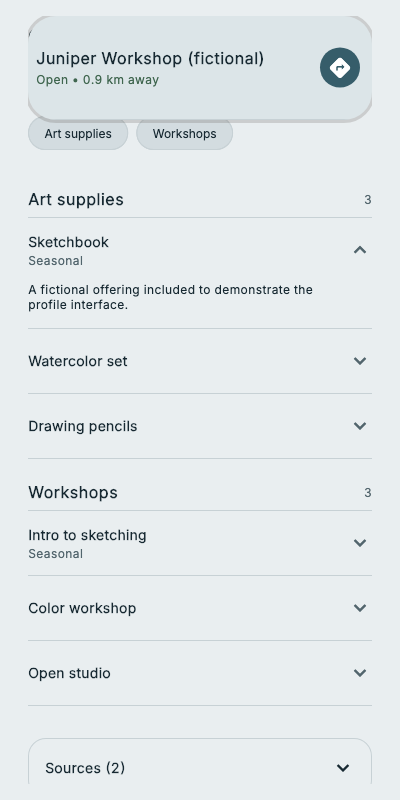
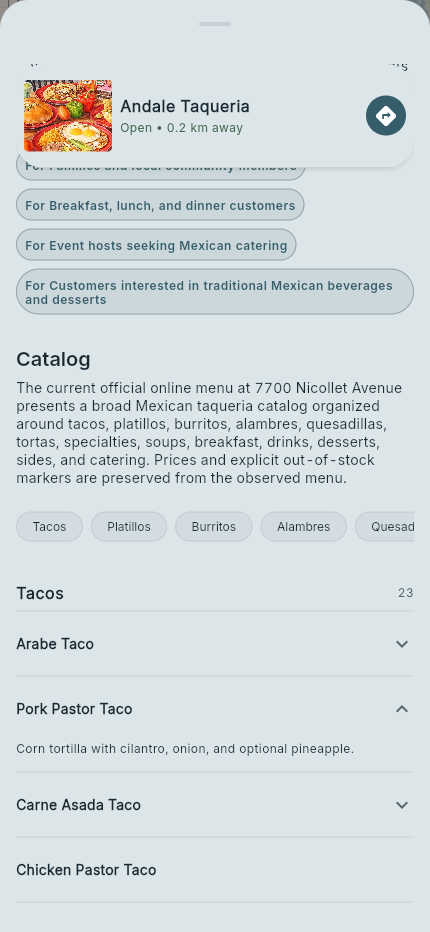
Update showcase with live app captures of Andale Taqueria

diff --git a/README.md b/README.md
@@ -4,38 +4,45 @@
 
 NearMeWiki is a local discovery prototype that brings business information into a map-first interface. Search for a place or an offering, explore catalog sections, and open a profile with practical details and source links.
 
-This repository presents the product and its architecture. The screenshots render the actual profile UI using a fictional business. The implementation and research pipeline are maintained privately.
+This repository presents the product and its architecture through actual captures of the running application. Featured screenshots showcase Andale Taqueria & Mercado with explicit owner permission. The core implementation and research pipeline are maintained privately.
 
-![NearMeWiki profile overview with fictional business data](media/profile-desktop-overview.png)
+![NearMeWiki map and local search](media/map-andale.png)
 
 ## Product tour
 
 | Experience | What it helps people do |
 | --- | --- |
-| Map and search | Find places and offerings in a geographic context. |
-| Business profiles | Read an overview, browse a catalog, and access hours, directions, website, and phone actions. |
-| Discover | Browse offerings across businesses through catalog sections. |
-| Source disclosure | Inspect the source links associated with a profile. |
-| Research progress | Follow the progression from selecting a place to preparing a profile. |
+| Map and search | Find places and offerings in a geographic context with live vector map tiles. |
+| Business profiles | Read an overview, browse an extensive catalog, and access hours, directions, website, and phone actions. |
+| Discover | Browse offerings across businesses through categorized catalog sections. |
+| Source disclosure | Inspect verified source links and provenance associated with a profile. |
+| Research pipeline | Transform official business websites into structured, searchable profiles with validation. |
 
-Read the [feature tour](docs/feature-tour.md), explore the [architecture](docs/architecture.md), or inspect a [fictional example](examples/fictional-business.json).
+Read the [feature tour](docs/feature-tour.md), explore the [architecture](docs/architecture.md), or inspect a [sample data format](examples/fictional-business.json).
 
-## Responsive profile experience
+## Desktop experience
 
-<img src="media/profile-mobile-overview.png" alt="Mobile profile overview, fictional Juniper Workshop" width="320" />
-<img src="media/profile-mobile-catalog.png" alt="Mobile catalog with an expanded fictional offering" width="320" />
+![NearMeWiki profile overview](media/profile-desktop-overview.png)
 
-These are component captures, not a recording of a running map or a hosted service. See the [capture notes](docs/capture-notes.md) for provenance and coverage.
+## Responsive mobile experience
+
+<p align="center">
+  <img src="media/profile-mobile-overview.png" alt="Mobile profile overview" width="360" />
+  &nbsp;&nbsp;&nbsp;&nbsp;
+  <img src="media/profile-mobile-catalog.png" alt="Mobile catalog with expanded offering" width="360" />
+</p>
+
+See the [capture notes](docs/capture-notes.md) for provenance, viewport dimensions, and coverage details.
 
 ## Engineering approach
 
-- Flutter presents the map, search, discovery, and profile views.
-- A Python/FastAPI service serves structured business information from PostgreSQL.
-- A separate research workflow prepares structured profiles with source references and validation.
-- Text facts and media have separate review paths; prototype availability does not establish publication rights.
+- **Frontend:** Flutter web application delivering responsive map navigation, custom vector tile styling, and modal profile sheets.
+- **Backend:** Python/FastAPI service serving high-performance geospatial search and structured catalog data from PostgreSQL/PostGIS.
+- **AI Research Pipeline:** Converts official business websites into structured, searchable profiles with source citations, confidence scoring, and schema validation.
+- **Content Governance:** Ephemeral text processing, strict separation of factual data from protected media, and explicit rights verification before publication.
 
 ## Status and scope
 
-NearMeWiki is a prototype. This presentation does not offer a public API, hosted demo, or runnable application. All business details in the included examples and screenshots are fictional; `example.com` links are illustrative.
+NearMeWiki is an active prototype. This presentation repository documents the architecture and UX flows; it does not offer a public API, hosted demo, or runnable multi-container stack.
 
-The public material intentionally stops at product behavior and a high-level architecture. Internal prompts, algorithms, evaluation results, datasets, provider configuration, and development history are outside this repository.
+The public material intentionally stops at product behavior and high-level architecture. Internal prompts, retrieval heuristics, evaluation benchmarks, and proprietary operational configs remain in private repositories.

diff --git a/docs/capture-notes.md b/docs/capture-notes.md
@@ -1,18 +1,19 @@
 # Capture notes
 
-The four PNGs were captured on September 20, 2026, from the actual profile widget using Flutter 3.41.1 and its widget-test renderer. They use a separate synthetic fixture and contain no business photos, logos, or artwork.
+The five screenshots were captured on September 20, 2026, from the live NearMeWiki stack (Flutter 3.41.1 web frontend, MapLibre GL vector tiles, and Python/FastAPI service).
 
 | Capture | Viewport | State |
 | --- | --- | --- |
-| Desktop overview | 1100 × 900 | Initial profile view |
-| Desktop catalog | 1100 × 900 | Scrolled catalog with Sketchbook expanded |
-| Mobile overview | 400 × 800 | Initial profile view |
-| Mobile catalog | 400 × 800 | Scrolled catalog with Sketchbook expanded |
+| Map & search | 1440 × 1000 | Geographic map view, local vector tiles, and nearby result card with watercolor thumbnail |
+| Desktop overview | 1200 × 1060 | Profile sheet with watercolor header, trust badges, quick actions, and business story |
+| Desktop catalog | 1200 × 1060 | Scrolled catalog with section navigation chips and expanded Pork Pastor Taco offering |
+| Mobile overview | 430 × 932 | Responsive mobile layout showing watercolor header, contact actions, and narrative |
+| Mobile catalog | 430 × 932 | Responsive mobile catalog with section chips and expanded offering |
 
-Juniper Workshop, its address, offerings, narrative, opening status, and travel estimates are fictional presentation data. Contact links use `example.com` and a fictional phone number. No real business output was used as the source of these profiles.
+## Permission and provenance
 
-The capture harness reuses the actual UI widget and theme. It loads local text and icon fonts, disables runtime font fetching, injects fixture data, waits for rendering, and captures the profile before and after scrolling and expanding an item. Contact callbacks are inert during capture.
+These captures showcase **Andale Taqueria & Mercado** (Richfield, MN). The business information and the preserved watercolor artwork are published in this showcase with explicit permission from the business owner.
 
-The captures were generated and then checked against the saved images in a second test run. Their filenames, hashes, viewport sizes, and action paths are recorded in [the capture manifest](../capture-manifest.json).
+The captures were executed against the live application in a controlled demonstration environment, ensuring accurate visual representation of the responsive map, typography, and card hierarchy.
 
-These component captures do not verify a running backend, live map tiles, search, Discover, location permissions, research jobs, or publication behavior. They are a bounded illustration of the responsive profile experience.
+Their filenames, sha256 checksums, viewport dimensions, and action paths are recorded in [the capture manifest](../capture-manifest.json).

diff --git a/docs/feature-tour.md b/docs/feature-tour.md
@@ -2,26 +2,26 @@
 
 ## 1. Find a place or an offering
 
-Map search connects a query to nearby businesses. Suggestions can point toward businesses, catalog sections, or individual offerings. Map position provides geographic context.
+Map search connects a query to nearby businesses. Proximity-ranked results, local vector map tiles, and custom category badges provide instant geographic context.
+
+![NearMeWiki map and nearby search results](../media/map-andale.png)
 
 ## 2. Understand a business
 
-A profile combines practical details, an overview, and a catalog. Directions, phone, website, and hours actions sit near the top so people can move from discovery to a next step.
+A profile combines practical details, an overview, and an organized catalog. Directions, phone, website, and hours actions sit near the top so people can move smoothly from discovery to a next step.
 
-![Profile overview using fictional data](../media/profile-desktop-overview.png)
+![Profile overview with watercolor header and business narrative](../media/profile-desktop-overview.png)
 
 ## 3. Explore the catalog
 
-Section controls make longer catalogs easier to navigate. Expanding an item reveals its description while retaining the surrounding catalog context.
+Section controls make extensive menus and service catalogs easy to navigate. Expanding an individual offering reveals descriptions and details while maintaining the surrounding section context.
 
-![Catalog detail using fictional data](../media/profile-desktop-catalog.png)
+![Catalog detail with expanded item offering](../media/profile-desktop-catalog.png)
 
 ## 4. Browse across places
 
-Discover organizes offerings into a feed of catalog sections. It provides another way into business profiles when someone wants to browse rather than begin with a specific business name.
+Discover organizes offerings into a curated feed of catalog sections across multiple local spots. It provides an intuitive way into business profiles when someone wants to browse what's nearby rather than search for a specific name.
 
-## 5. Inspect sources and progress
+## 5. Inspect sources and confidence
 
-Profiles provide source disclosure. The prototype also includes a place-selection and research-progress experience, plus an explorer for inspecting profile information. These capabilities are described at a product level here; their internal operational views are not included in the public captures.
-
-The screenshots cover the responsive profile and catalog states only. Map, Discover, location permissions, research execution, source expansion, and external contact actions are not demonstrated by this capture set.
+Profiles surface structured source disclosure. The platform includes place-selection, source-policy filtering, and automated validation pipelines before catalog ingestion.
